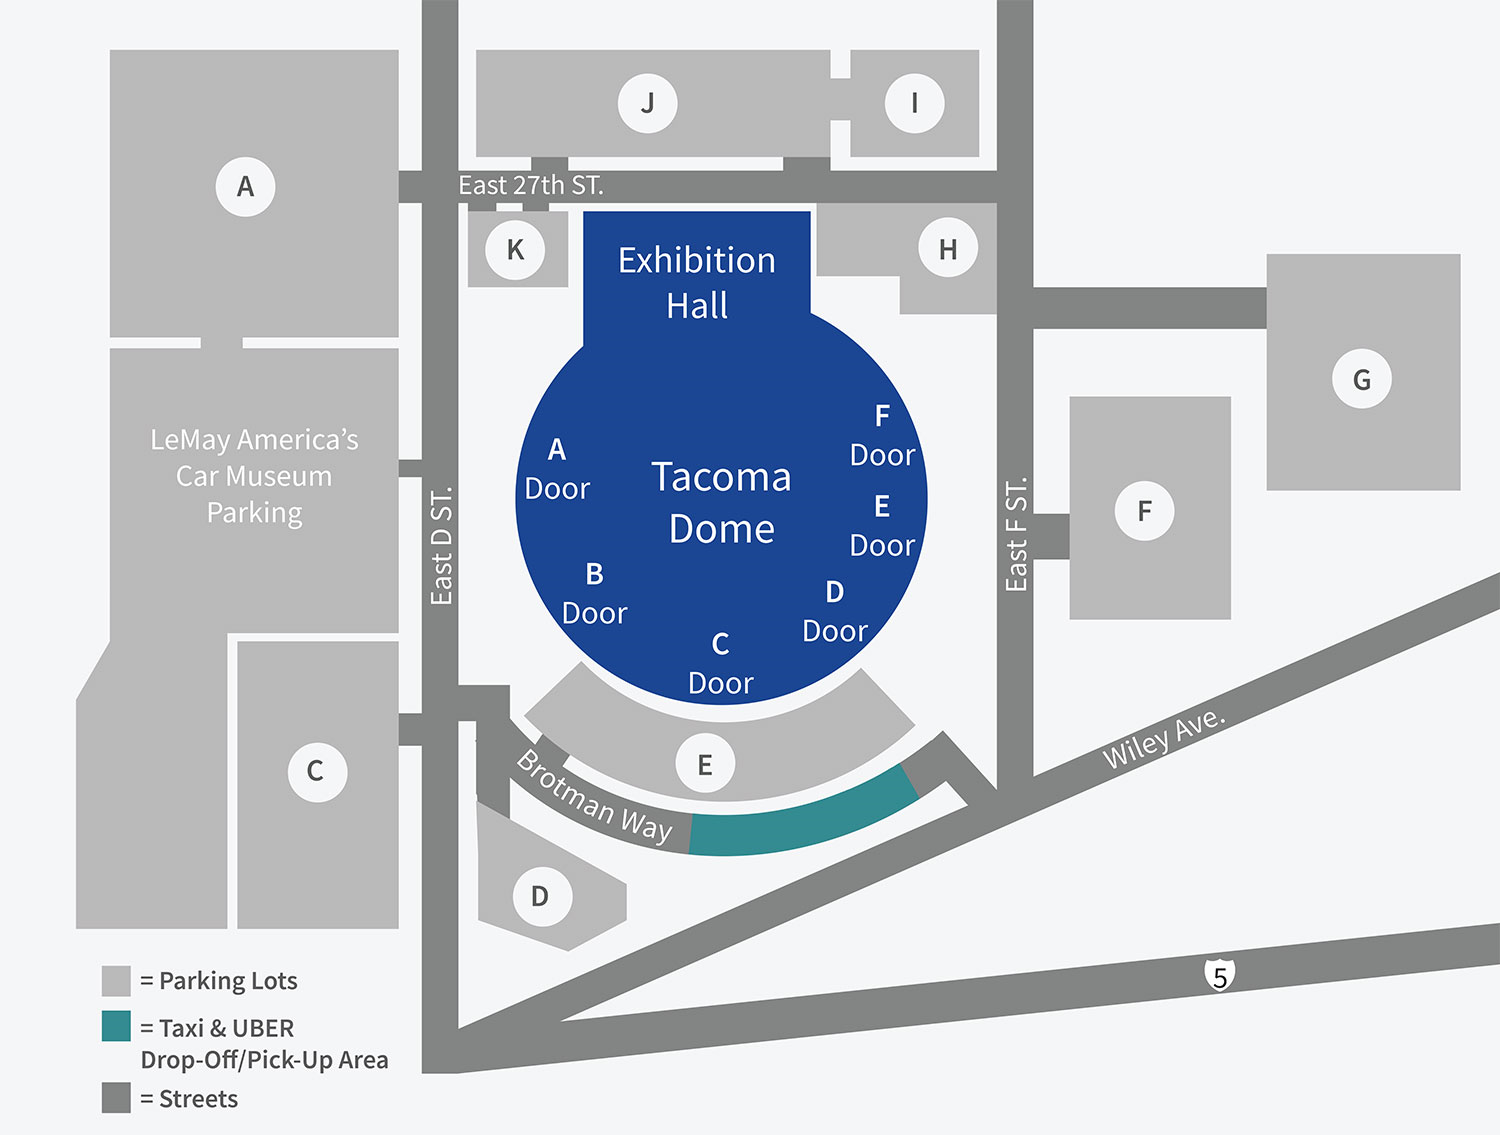
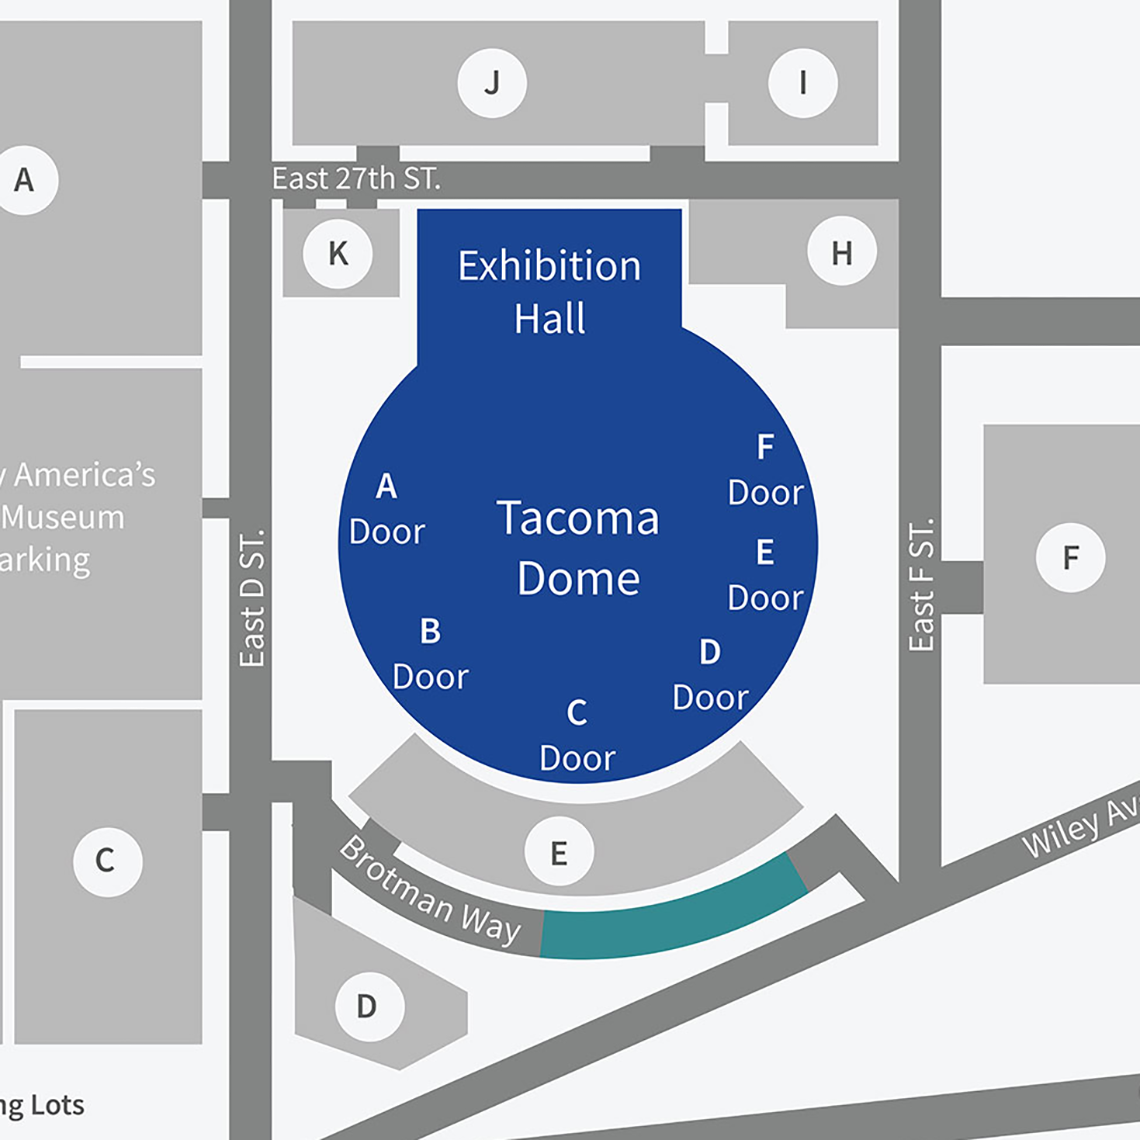
visualization, modified some points to match image file

diff --git a/security_simulation/Main.py b/security_simulation/Main.py
@@ -13,7 +13,8 @@ from security_simulation.Model import Model
 
 SECURITY_PERSONNEL_SETS = np.array([
     [2, 1, 1],
-    [3, 1, 1]
+    [3, 1, 1],
+    [3,1,1]
 ])
 
 BAG_CHECKERS = np.array([
@@ -22,10 +23,10 @@ BAG_CHECKERS = np.array([
 ])
 
 #coordinates for checkpoints in tacoma dome using map
-CHECKPOINT_A = (100,60)
-CHECKPOINT_B = (160,80)
+CHECKPOINT_A = (175,108)
+CHECKPOINT_B = (228,126)
 CHECKPOINT_C = (180,120)
-CHECKPOINT_D = (160,160)
+CHECKPOINT_D = (240,252)
 CHECKPOINT_E = (140,180)
 CHECKPOINT_F = (80,180)
 
@@ -36,8 +37,9 @@ CHECKPOINT_F = (80,180)
 #     CHECKPOINT_F
 # ])
 CHECKPOINT_LOCATIONS = np.array([
-    (10, 10),
-    (20, 10)
+    CHECKPOINT_A,
+    CHECKPOINT_B,
+    CHECKPOINT_D
 ])
 
 # The id associated with the checkpoint setup:
@@ -45,11 +47,13 @@ CHECKPOINT_LOCATIONS = np.array([
 CHECKPOINT_CONFIGURATIONS = np.array([0, 1])
 
 #coordinates for parking lots where attendee's will spawn using map
-PARKING_D = (260,40)
-PARKING_E = (200,120)
+PARKING_D = (330,124)
+PARKING_E = (285,187)
 PARKING_F = (120,260)
+PARKING_C = (275,46)
 PARKING_H = (20,180)
 PARKING_K = (20,40)
+PARKING_A = (68,34)
 
 # For each spawnpoint location;
 # The x coordinate in the space, y coordinate in the space:
@@ -58,8 +62,10 @@ PARKING_K = (20,40)
 #     PARKING_K,
 # ]
 SPAWNPOINT_LOCATIONS = [
-    (5,5),
-    (15,15),
+    PARKING_D,
+    PARKING_E,
+    PARKING_A,
+    PARKING_C
 ]
 
 
@@ -68,7 +74,7 @@ SPAWNPOINT_PERCENTAGES = [
     (.20, .10),
 ]
 
-ATTENDEE_NUMBER = 10
+ATTENDEE_NUMBER = 200
 
 GENDER_PERCENTAGE = 0.5
 
@@ -87,7 +93,7 @@ def __init__():
     model = Model(SECURITY_PERSONNEL_SETS, CHECKPOINT_LOCATIONS,
                   SPAWNPOINT_LOCATIONS, SPAWNPOINT_PERCENTAGES,
                   ATTENDEE_NUMBER, GENDER_PERCENTAGE, METAL_MEAN, METAL_STD_DEV, 
-                  COOPERATIVE_CHANCE, closed_door_time=25, save_simulation=SAVE_SIMULATION)
+                  COOPERATIVE_CHANCE, closed_door_time=500, save_simulation=SAVE_SIMULATION)
 
 
 if __name__ == "__main__":

diff --git a/security_simulation/visualize_event.py b/security_simulation/visualize_event.py
@@ -3,7 +3,7 @@ import matplotlib.pyplot as plt
 from security_simulation.analysis import Analysis
 #from analysis import Analysis
 
-SCALING_FACTOR = 50
+SCALING_FACTOR = 3
 
 
 class Visualize(object):
@@ -18,13 +18,12 @@ class Visualize(object):
         sim_dict = ana.load_simulation_file(self.sim_file)
         # Load the image that the visualization will run over
         im = plt.imread(self.event_image)
-        implot = plt.imshow(im, aspect='equal')
+        implot = plt.imshow(im)
 
         plt.interactive(True)
         plt.show()
             
         # set the points for the checkpoints
-        print(sim_dict)
         checkpoints = sim_dict["checkpoints"]
 
         check_x = N.zeros(len(checkpoints))
@@ -41,7 +40,7 @@ class Visualize(object):
         # Each key in the sim_dict is a time_step, iterate through and
         # plot the simulation state for attendees
         attendee_scatter = plt.scatter([0],[0])
-        for i in range(25):
+        for i in range(len(sim_dict.keys()) - 2):
             print("******Timestep:", i, "******")
             time_step_dict = sim_dict[str(i)]
             attendee_list = time_step_dict['attendees']

diff --git a/security_simulation/attendee.py b/security_simulation/attendee.py
@@ -170,7 +170,7 @@ class Attendee(object):
             print("Attendee", self.attendee_id, "at:", self.current_location,\
                 "has moved to checkpoint at:", self.checkpoint_target.get_location())
             self.current_location = self.checkpoint_target.get_location()
-            self.walk_route[-1] = self.current_location
+            self.walk_route[-1] = tuple(self.current_location)
             print("Attendee Walk Route: ", self.walk_route)
             
             return True
@@ -189,10 +189,6 @@ class Attendee(object):
         c_loc = self.checkpoint_target.get_location()
         
         self.dist_to_checkpoint = self._calc_distance(c_loc)
-        if N.floor(self.current_location[0]) >= c_loc[0] \
-        and N.floor(self.current_location[1]) >= c_loc[1]:
-            print("Attendee", self.attendee_id, "has reached it's target checkpoint.")
-            return
         new_y = self.current_location[0] + (self.walk_speed / self.dist_to_checkpoint \
                                             * (c_loc[0] - self.current_location[0]))
         new_x = self.current_location[1] + (self.walk_speed / self.dist_to_checkpoint \

diff --git a/security_simulation/Model.py b/security_simulation/Model.py
@@ -135,7 +135,7 @@ class Model:
             if self.save_sim:
                 self.sim_data_analysis.add_time_step(self.current_time, self.attendee_set,
                                                      self.event_checkpoints, self.attendees_entered_event_set,
-                                                     include_attendees=True, include_checkpoints=False, include_entered=False)
+                                                     include_attendees=True, include_checkpoints=True, include_entered=False)
             self.current_time += 1
 
         # save simulation to file
